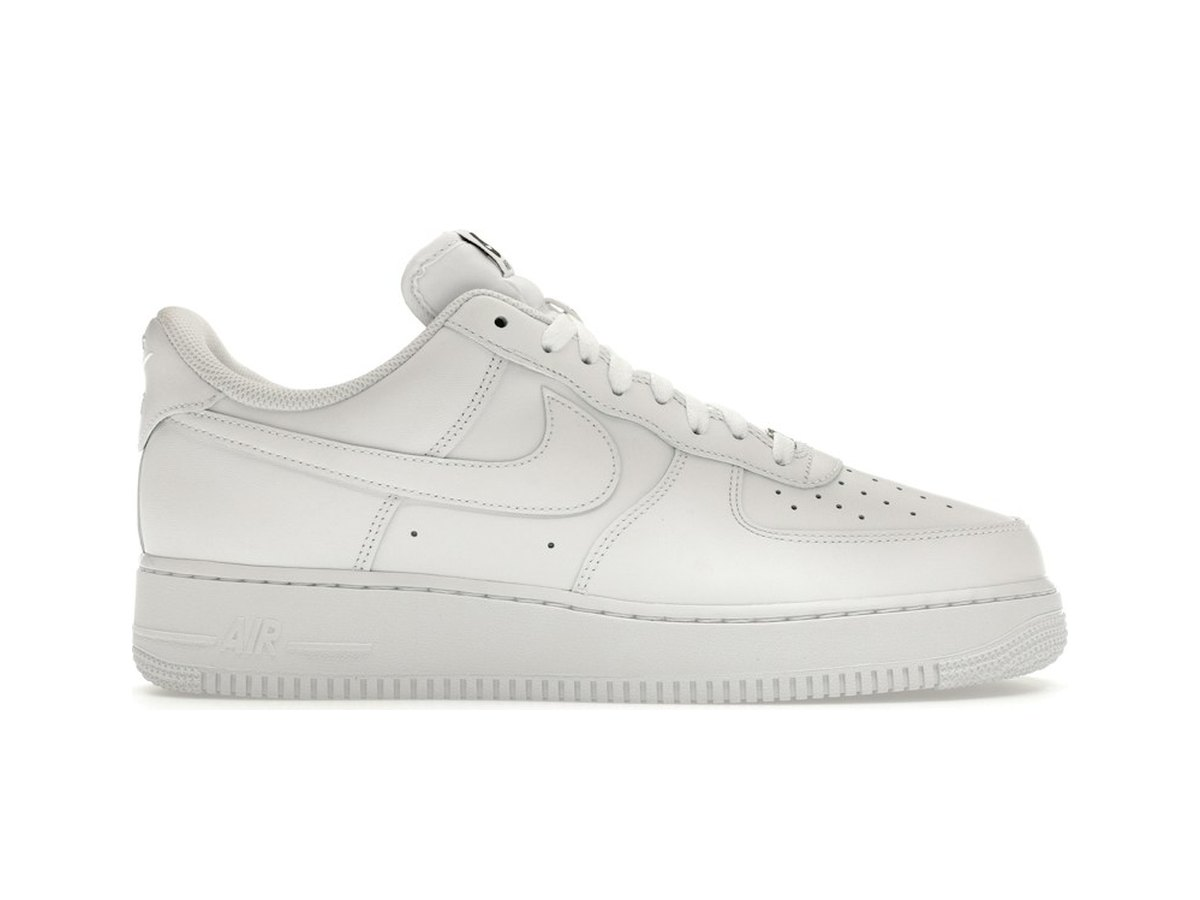
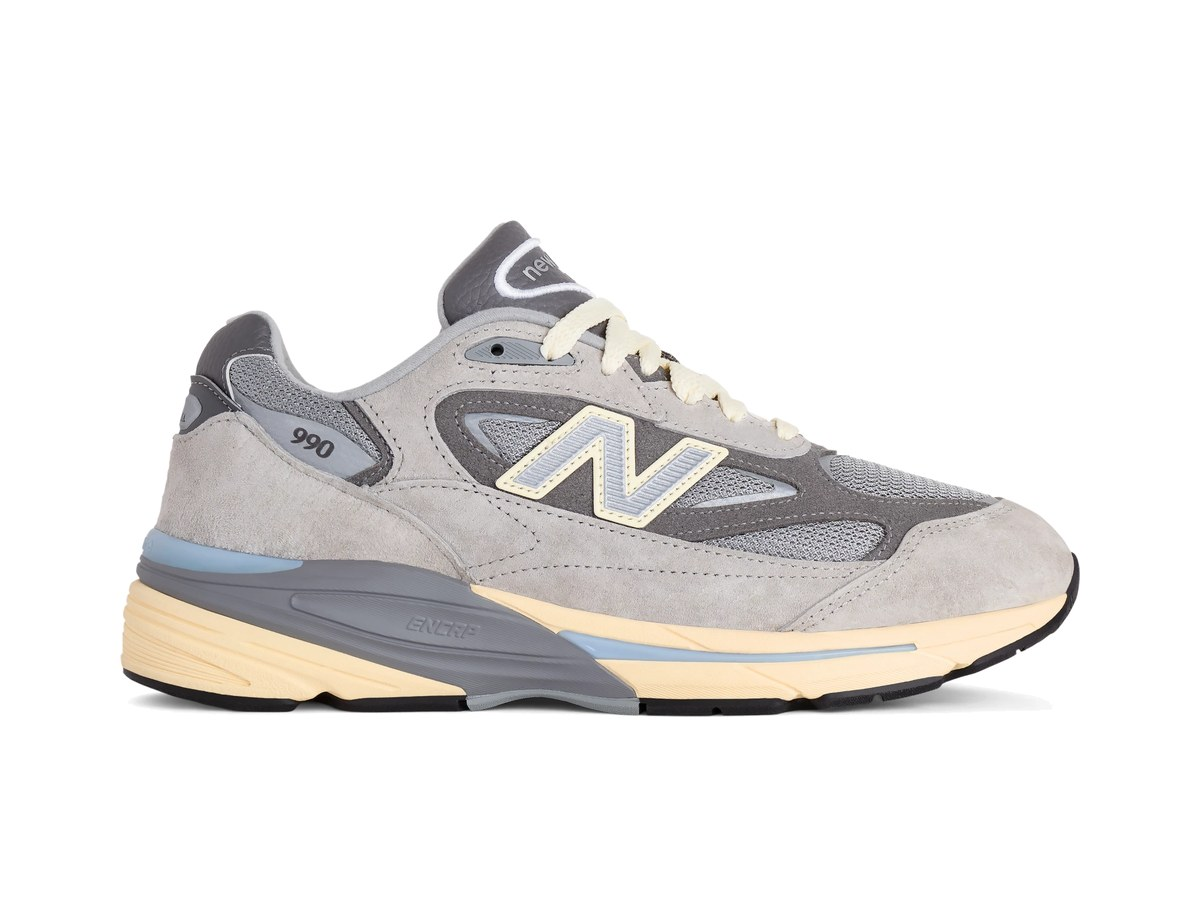
Matt's Picks slot 1: New Balance Made in USA 990v7 (Kool Gray)

Changed region(s): [[0.0925, 0.2489, 0.925, 0.8089]]

diff --git a/index.html b/index.html
@@ -57,12 +57,13 @@
     <div class="tab-panel" id="panel-picks" aria-labelledby="tab-picks">
     <div class="grid">
       <a class="tile" href="slots/everyday-dad-shoe.html">
-        <div class="tile-img"><img src="assets/slots/slot-1.jpg" alt="Nike Air Force 1 Low FlyEase in white" width="1200" height="900" loading="lazy"></div>
+        <div class="tile-img"><img src="assets/slots/slot-1.jpg" alt="New Balance Made in USA 990v7 in Kool Gray / Calcium / Light Arctic Grey" width="1200" height="900" loading="lazy"></div>
         <div class="tile-body">
           <span class="tile-num">Slot 1</span>
           <h3 class="tile-name">The Everyday Dad Shoe</h3>
-          <p class="tile-pick">Current pick<strong>Nike Air Force 1 Low FlyEase / EasyOn (White)</strong></p>
-          <p class="budget-price">From $80 on StockX (resale; varies by size)<span class="asof">Price as of Oct 18, 2026</span></p>
+          <p class="tile-pick">Current pick<strong>New Balance Made in USA 990v7</strong></p>
+          <p class="budget-color">Kool Gray / Calcium / Light Arctic Grey</p>
+          <p class="budget-price">$199.99 at New Balance<span class="asof">Price as of Nov 14, 2026</span></p>
           <span class="tile-more">See the slot <span>&rarr;</span></span>
         </div>
       </a>
@@ -318,7 +319,7 @@
       <a href="https://www.youtube.com/@dadshoerotation" rel="noopener"><svg viewBox="0 0 24 24" aria-hidden="true"><path d="M23.5 6.2a3 3 0 0 0-2.1-2.1C19.5 3.6 12 3.6 12 3.6s-7.5 0-9.4.5A3 3 0 0 0 .5 6.2 31 31 0 0 0 0 12a31 31 0 0 0 .5 5.8 3 3 0 0 0 2.1 2.1c1.9.5 9.4.5 9.4.5s7.5 0 9.4-.5a3 3 0 0 0 2.1-2.1A31 31 0 0 0 24 12a31 31 0 0 0-.5-5.8zM9.6 15.6V8.4l6.3 3.6-6.3 3.6z"/></svg> YouTube</a>
       <a href="https://www.tiktok.com/@dadshoerotation" rel="noopener"><svg viewBox="0 0 24 24" aria-hidden="true"><path d="M19.6 6.7a4.8 4.8 0 0 1-3.8-4.2V2h-3.4v13.4a2.9 2.9 0 1 1-2-2.7V9.2a6.3 6.3 0 1 0 5.4 6.2V8.6a8.2 8.2 0 0 0 3.8 1.2V6.4l-.1.3z"/></svg> TikTok</a>
     </div>
-    <p class="fine">&copy; 2026 Dad Shoe Rotation &middot; @dadshoerotation<br>Product images: eBay, StockX, Skechers, To Boot New York, adidas, Magnanni, Zappos (Allen Edmonds), Crockett &amp; Jones, Red Wing, STAG Provisions, Tecovas, On, Finish Line, Nordstrom Rack, Nike. The Classics slot 1 photo: Dad Shoe Matt.</p>
+    <p class="fine">&copy; 2026 Dad Shoe Rotation &middot; @dadshoerotation<br>Product images: eBay, StockX, Skechers, To Boot New York, adidas, Magnanni, Zappos (Allen Edmonds), Crockett &amp; Jones, Red Wing, STAG Provisions, Tecovas, On, Finish Line, Nordstrom Rack, Nike, New Balance. The Classics slot 1 photo: Dad Shoe Matt.</p>
   </div>
 </footer>
 <script src="assets/js/owned.js" defer></script>

diff --git a/slots/everyday-dad-shoe.html b/slots/everyday-dad-shoe.html
@@ -29,7 +29,7 @@
 <div class="wrap">
   <p class="crumb"><a href="../index.html#rotation">&larr; Back to the rotation</a></p>
   <section class="slot-hero">
-    <figure class="slot-photo"><div class="tile-img"><img src="../assets/slots/slot-1.jpg" alt="Nike Air Force 1 Low FlyEase in white" width="1200" height="900"></div><figcaption class="img-credit">Image: StockX</figcaption></figure>
+    <figure class="slot-photo"><div class="tile-img"><img src="../assets/slots/slot-1.jpg" alt="New Balance Made in USA 990v7 in Kool Gray / Calcium / Light Arctic Grey" width="1200" height="900"></div><figcaption class="img-credit">Image: New Balance</figcaption></figure>
     <div class="rules">
       <p class="eyebrow">Slot 1 of 6</p>
       <h1>The Everyday Dad Shoe</h1>
@@ -38,10 +38,10 @@
       <p>I recommend a slip-in or step-in shoe, since this will be your most-worn shoe, and ideally leather.</p>
       <div class="pick">
         <p class="eyebrow">My current pick</p>
-        <h3>Nike Air Force 1 Low FlyEase / EasyOn (White)</h3>
-        <p>My current everyday pair. Heads up: Nike discontinued this one, so it&rsquo;s resale only now, on StockX.</p>
-        <p class="pick-price">From $80 on StockX (resale; varies by size)<span class="asof">Price as of Oct 18, 2026</span></p>
-        <p class="shop"><a class="btn btn-shop" href="https://stockx.com/nike-air-force-1-low-flyease-white" target="_blank" rel="noopener">Shop this shoe on StockX &rarr;</a></p>
+        <h3>New Balance Made in USA 990v7</h3>
+        <p>My current everyday pair. Pictured: Kool Gray / Calcium / Light Arctic Grey (U990GR7).</p>
+        <p class="pick-price">$199.99 at New Balance<span class="asof">Price as of Nov 14, 2026</span></p>
+        <p class="shop"><a class="btn btn-shop" href="https://www.newbalance.com/pd/made-in-usa-990v7/U990V7-53070-PMG-NA.html?dwvar_U990V7-53070-PMG-NA_style=U990GR7" target="_blank" rel="noopener">Shop this shoe at New Balance &rarr;</a></p>
       </div>
       <div class="budget-callout">
         <p class="eyebrow">Classic pick</p>

diff --git a/blog/my-dad-shoe-rotation.html b/blog/my-dad-shoe-rotation.html
@@ -42,7 +42,7 @@
   <blockquote>Six pairs. Each one has a job. If a better shoe earns the spot, it gets the spot.</blockquote>
 
   <h2>Slot 1: The Everyday Dad Shoe</h2>
-  <p>If you could only own one pair, this is it. It has to work almost anywhere, and comfort, support, and durability come first. Since this will be your most-worn shoe, I recommend a slip-in or step-in, ideally leather. My pick is the Nike Air Force 1 Low FlyEase / EasyOn. Nike discontinued it, so you&rsquo;ll find it on StockX now. The Skechers Aeroburst is another option.</p>
+  <p>If you could only own one pair, this is it. It has to work almost anywhere, and comfort, support, and durability come first. Since this will be your most-worn shoe, I recommend a slip-in or step-in, ideally leather. My pick is the New Balance Made in USA 990v7. The Skechers Aeroburst is another option.</p>
   <p><a class="slot-link" href="../slots/everyday-dad-shoe.html">See Slot 1: The Everyday Dad Shoe &rarr;</a></p>
 
   <h2>Slot 2: The Workout Shoe</h2>

diff --git a/README.md b/README.md
@@ -34,7 +34,7 @@ Each slot uses exactly one image file. It shows on the homepage tile and at the 
 
 | Slot | Image file | Current image |
 |---|---|---|
-| 1. The Everyday Dad Shoe | `assets/slots/slot-1.jpg` | Nike Air Force 1 Low FlyEase, white (StockX) |
+| 1. The Everyday Dad Shoe | `assets/slots/slot-1.jpg` | New Balance Made in USA 990v7, Kool Gray / Calcium / Light Arctic Grey (New Balance) |
 | 2. The Workout Shoe | `assets/slots/slot-2.jpg` | Nike Pegasus Plus 2, Flash Crimson / Black / Light Smoke Grey / Metallic Silver (Nike) |
 | 3. The Clean White Sneaker | `assets/slots/slot-3.jpg` | Magnanni Elonso Cap Toe, white (Nordstrom Rack); shop link: Nordstrom Rack |
 | 4. The Work Dress Shoe | `assets/slots/slot-4.jpg` | Allen Edmonds Park Avenue (Zappos) |
